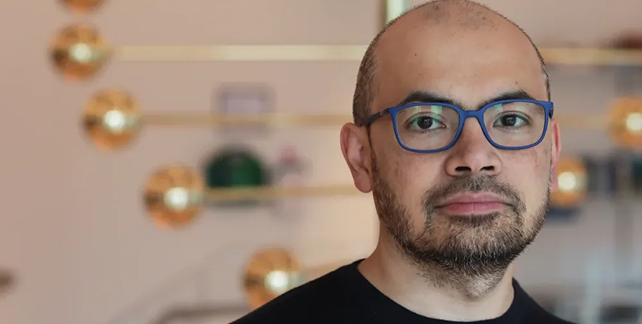
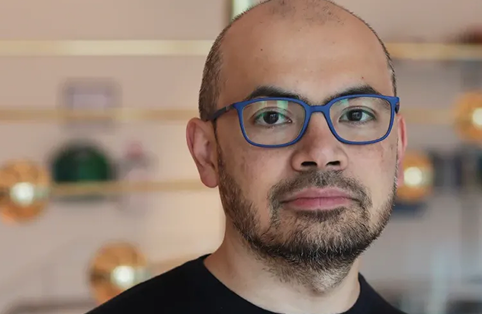
CSS applied in grid

diff --git a/style.css b/style.css
@@ -71,3 +71,53 @@ header {
   margin-bottom: 150px;
   line-height: 1.5;
 }
+
+.speakers {
+  width: 90%;
+  margin: 70px auto;
+}
+
+.speakers h2 {
+  text-align: center;
+  font-size: 40px;
+  margin-bottom: 40px;
+}
+
+.speaker_grid {
+  display: grid;
+  grid-template-columns: 1fr 1fr;
+  gap: 30px;
+}
+
+.speaker_card {
+  border: 1px solid lightgray;
+  border-radius: 8px;
+  overflow: hidden;
+  background: white;
+  box-shadow: 0px 4px 12px rgba(0, 0, 0, 0.3);
+}
+
+.speaker_card img {
+  width: 100%;
+  height: 250px;
+  object-fit: cover;
+}
+
+.speaker_info {
+  padding: 15px;
+}
+
+.speaker_info h5 {
+  color: #3c6582;
+  margin-bottom: 6px;
+  font-size: 10px;
+}
+
+.speaker_info h3 {
+  color: #040720;
+  margin-bottom: 8px;
+}
+
+.speaker_info p {
+  color: gray;
+}